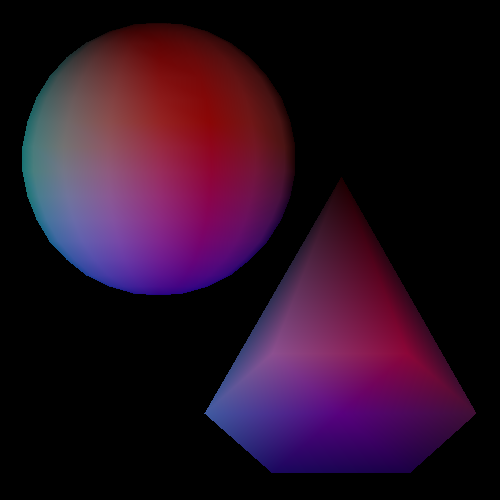
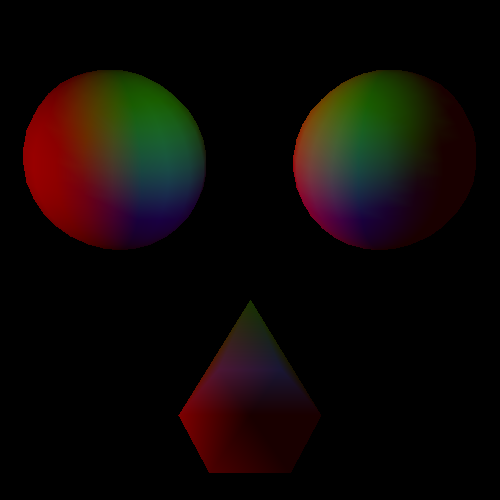
fix projection and prepared scene

diff --git a/main.cpp b/main.cpp
@@ -21,7 +21,7 @@ int main() {
     
     // DIRECTIONAL LIGHT
     DirectionalLight directionalLight;
-    directionalLight.direction = Vector3{0, 0, 1}.normalize();
+    directionalLight.direction = Vector3{1, 0, 0};
     directionalLight.lightColor = Vector3{1.f, 0.f, 0.f};
     directionalLight.diffuseStrength = 0.5f;
     directionalLight.specularStrength = 0.0f;
@@ -29,35 +29,41 @@ int main() {
 
     // POINT LIGHT
     PointLight pointLight;
-    pointLight.position = Vector3{0.f, 3.f, 0.f};
-    pointLight.lightColor = {0.f, 0.f, 1.f};
-    pointLight.diffuseStrength = 0.5f;
+    pointLight.position = Vector3{0.f, 0.f, 0.f};
+    pointLight.lightColor = Vector3{0.f, 0.f, 1.f};
+    pointLight.diffuseStrength = 0.3f;
     pointLight.specularStrength = 0.0f;
     shader->addPointLight(pointLight);
-
+    
     PointLight pointLight2;
-    pointLight2.position = Vector3{-3.f, 0.f, 0.f};
-    pointLight2.lightColor = {0.f, 1.f, 1.f};
-    pointLight2.diffuseStrength = 0.5f;
-    pointLight2.specularStrength = 0.1f;
+    pointLight2.position = Vector3{0.f, -1.5f, 0.f};
+    pointLight2.lightColor = Vector3{0.f, 1.f, 0.f};
+    pointLight2.diffuseStrength = 0.4f;
+    pointLight2.specularStrength = 0.0f;
     shader->addPointLight(pointLight2);
 
-    shader->setProjection(Matrix4::Perspective(ToRad(120.f), 1.f, 0.01f, 100.f));
-    shader->setView(Matrix4::LookAt({0.f, 0.f, 10.f}, Vector3{0.f}, Vector3{0.f, 1.f, 0.f}));
+    shader->setProjection(Matrix4::Perspective(ToRad(60.f), 1.f, 0.01f, 100.f));
+    shader->setView(Matrix4::LookAt(Vector3{0.f, 0.f, 5.f}, Vector3{0.f, 0.f, 0.f}, Vector3{0.f, 1.f, 0.f}));
 
     Matrix4 model = Matrix4{1};
 
     SphereMesh sphereMesh(16);
-    model = Matrix4::Translation(-0.2f, -0.2f, -20.f) *
-            Matrix4::Scale(0.3f, 0.3f, 0.3f);
+    model = Matrix4::Translation(-1.5f, -1.f, 0.f) *
+            Matrix4::Scale(1.f, 1.f, 1.f);
     shader->setModel(model);
     rasterizer.render(&sphereMesh, shader.get());
+    
+    SphereMesh sphereMesh2(16);
+    model = Matrix4::Translation(1.5f, -1.f, 0.f) *
+            Matrix4::Scale(1.f, 1.f, 1.f);
+    shader->setModel(model);
+    rasterizer.render(&sphereMesh2, shader.get());
 
     ConeMesh coneMesh(1.f, 2.f, 6);
-    model = Matrix4::Translation(0.2f, 0.1f, -20.f) *
+    model = Matrix4::Translation(0.f, 1.3f, 0.f) *
             Matrix4::RotationZ(ToRad(180.f)) *
-            Matrix4::RotationX(ToRad(30.f)) *
-            Matrix4::Scale(0.3f, 0.3f, 0.3f);
+            Matrix4::RotationX(ToRad(30)) *
+            Matrix4::Scale(0.9f, 0.9f, 0.9f);
     shader->setModel(model);
     rasterizer.render(&coneMesh, shader.get());
 

diff --git a/include/Matrix4.hpp b/include/Matrix4.hpp
@@ -226,8 +226,8 @@ public:
         Matrix4 result {1};
 
         const Vector3 forward = (center - eye).normalize();
-        const Vector3 right = forward.cross(up);
-        const Vector3 trueUp = right.cross(forward);
+        const Vector3 right = forward.cross(up).normalize();
+        const Vector3 trueUp = right.cross(forward).normalize();
 
         result[0] = Vector4{right.x, trueUp.x, forward.x, 0};
         result[1] = Vector4{right.y, trueUp.y, forward.y, 0};
@@ -239,8 +239,6 @@ public:
 
     static Matrix4 Perspective(float fov, float aspect, float near, float far) {
         
-        fov = fov * M_PI * (1.f / 180.f);
-
         Matrix4 result {0};
         const float f = std::cos(fov / 2.) / std::sin(fov / 2.);
         
